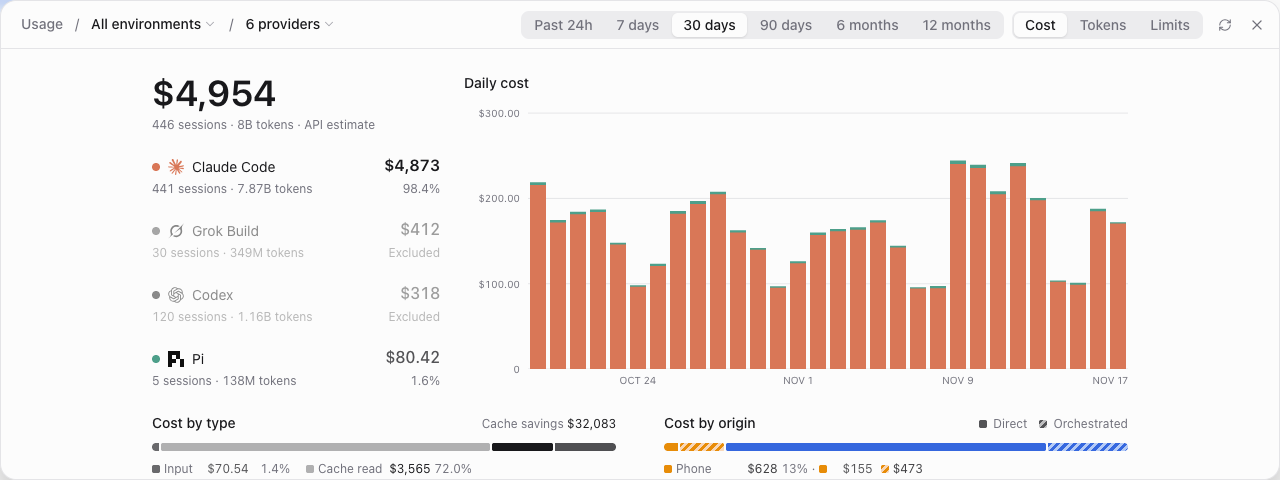
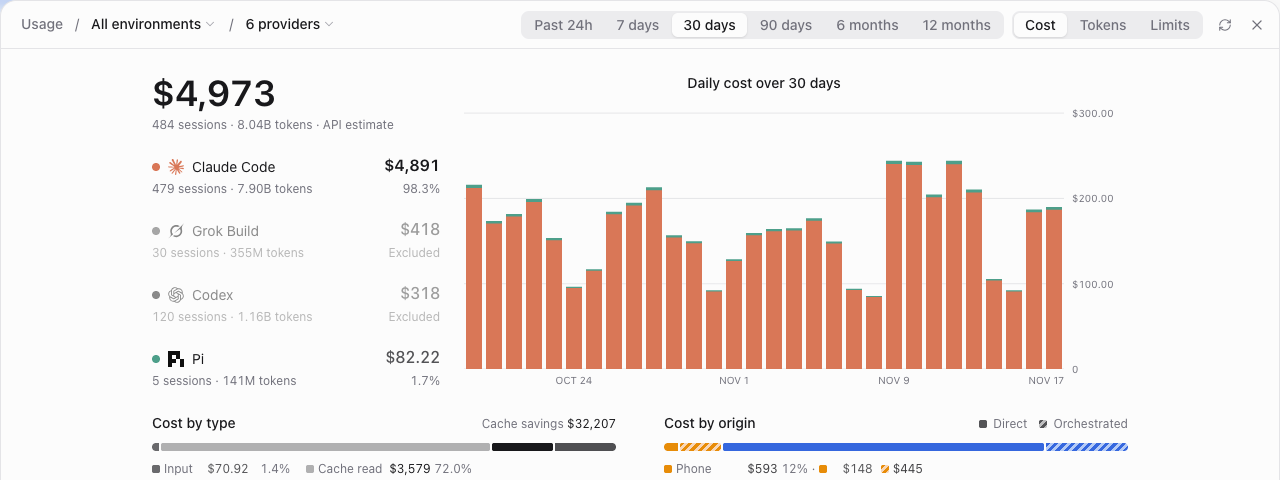
feat(web): the usage chart's title centers over the bars, with its values on the right
The captain reviewed the Usage page on a board and asked for the chart title
to be centered on the graph and for the y-axis to move to the right.

- The value labels sit in a column after the plot, set against the bars, and
  the date row's gutter moves to the right to match.
- The chart title is centered over the bars: its right padding equals the
  label column, so it skips the labels the way the dates do.

The fork README notes both departures from upstream for syncs, and its three
usage pictures are retaken from made-up usage, since they all show the chart.

diff --git a/apps/web/src/components/usage/UsageProviderChart.tsx b/apps/web/src/components/usage/UsageProviderChart.tsx
@@ -396,20 +396,6 @@ export function UsageProviderChart({
     // Fills a taller column, such as a long providers list beside it, and never shrinks below h-56.
     <div className="flex flex-1 flex-col gap-1">
       <div className="flex min-h-56 flex-1 gap-2">
-        <div aria-hidden className="relative w-14 shrink-0">
-          {scale.labeled
-            ? scale.ticks.map((tick) => (
-                <span
-                  key={tick}
-                  className="absolute right-0 -translate-y-1/2 text-3xs text-muted-foreground tabular-nums"
-                  style={{ top: `${(toY(tick) / VIEW_HEIGHT) * 100}%` }}
-                >
-                  {tick === 0 ? "0" : format(tick)}
-                </span>
-              ))
-            : null}
-        </div>
-
         <UsageChartPlot
           periods={periods}
           columns={columns}
@@ -445,11 +431,24 @@ export function UsageProviderChart({
             />
           ))}
         </UsageChartPlot>
+        <div aria-hidden className="relative w-14 shrink-0">
+          {scale.labeled
+            ? scale.ticks.map((tick) => (
+                <span
+                  key={tick}
+                  className="absolute left-0 -translate-y-1/2 text-3xs text-muted-foreground tabular-nums"
+                  style={{ top: `${(toY(tick) / VIEW_HEIGHT) * 100}%` }}
+                >
+                  {tick === 0 ? "0" : format(tick)}
+                </span>
+              ))
+            : null}
+        </div>
       </div>
 
       <div
         aria-hidden
-        className="relative ml-16 h-4 text-3xs whitespace-nowrap text-muted-foreground uppercase"
+        className="relative mr-16 h-4 text-3xs whitespace-nowrap text-muted-foreground uppercase"
       >
         {axisLabelIndices(periods.length).map((index) => {
           // Past a week the edge bars hug the plot's sides, so their labels align to the sides.

diff --git a/apps/web/src/components/usage/UsagePage.tsx b/apps/web/src/components/usage/UsagePage.tsx
@@ -811,7 +811,8 @@ function UsageOverview({
         </div>
 
         <div className="flex min-w-0 flex-col gap-3">
-          <h2 className="text-sm font-medium text-foreground">
+          {/* pr-16 matches the chart's y-axis gutter, so the title centers over the bars. */}
+          <h2 className="pr-16 text-center text-sm font-medium text-foreground">
             {usageChartTitle(metric, shownHourly, days.length)}
           </h2>
           {activeProviders.length === 0 && excludedProviders.size > 0 ? (

diff --git a/fork/README.md b/fork/README.md
@@ -118,7 +118,9 @@ compare them:
   columns too.
 - **The chart is as tall as the provider list.** With four or more providers
   the bars stretch so the chart ends level with the last row. It is never
-  shorter than upstream's.
+  shorter than upstream's. Its value labels sit on the right of the bars, and
+  its title is centered over them; upstream puts the labels on the left and
+  the title flush left.
 - **Whole dollars from $100.** The page's standing dollar figures drop cents
   from $100 up (`formatUsdShort`). The chart's tooltip and a model's pop-up
   keep cents.
@@ -131,8 +133,9 @@ and the missing Totals section in
 `apps/web/src/components/usage/UsagePage.tsx`; the legend in
 `UsageShareBar.tsx` and the segment order in `usageBreakdown.ts`; the legend
 in `UsageOriginBreakdown.tsx`; `min-h-56 flex-1` in place of upstream's fixed
-`h-56` in `UsageProviderChart.tsx`; the scale in `usageEmphasis.ts`; and
-`formatUsdShort` in `packages/shared/src/usageFormat.ts`.
+`h-56` and the value labels after the plot in `UsageProviderChart.tsx`, with
+the chart title's `pr-16 text-center` in `UsagePage.tsx`; the scale in
+`usageEmphasis.ts`; and `formatUsdShort` in `packages/shared/src/usageFormat.ts`.
 
 ## Usage accounts follow the providers tab
 
